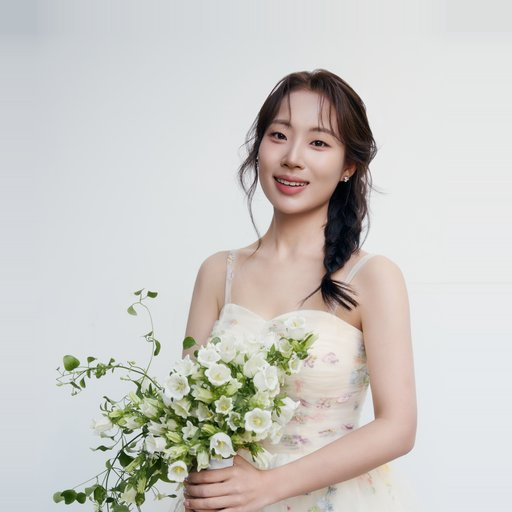
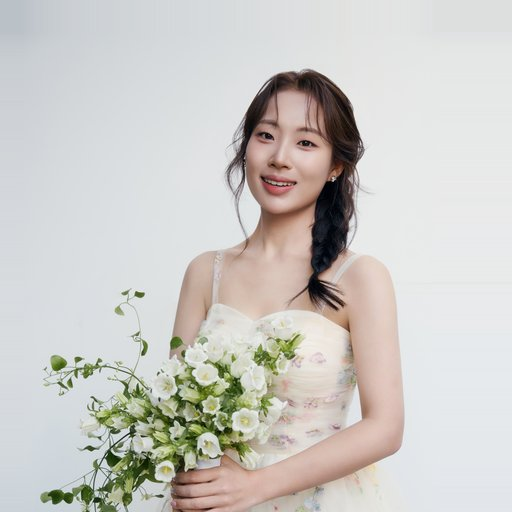
tweak: 신부 프로필 아주 살짝 왼쪽 + 프로필 프레임 색 #EB9F9D

Changed region(s): [[0.0625, 0.125, 0.8125, 1.0]]

diff --git a/assets/css/style.css b/assets/css/style.css
@@ -268,7 +268,7 @@ html, body {
   background: #fff; border-radius: var(--radius);
   padding: 16px 12px 18px; box-shadow: var(--shadow-sm);
 }
-.profile-photo { width: 100%; aspect-ratio: 1 / 1; border-radius: 50%; margin-bottom: 12px; box-sizing: border-box; border: 3px solid #d99fb3; }   /* 원형 프레임 */
+.profile-photo { width: 100%; aspect-ratio: 1 / 1; border-radius: 50%; margin-bottom: 12px; box-sizing: border-box; border: 3px solid #EB9F9D; }   /* 원형 프레임 */
 .profile-role { font-size: 0.925rem; color: var(--sea-dk); margin: 0 0 6px; font-weight: 600; }
 .profile-name { font-family: var(--font-head); font-weight: 700; font-size: 1.325rem; margin: 0 0 10px; }
 .profile-call {
